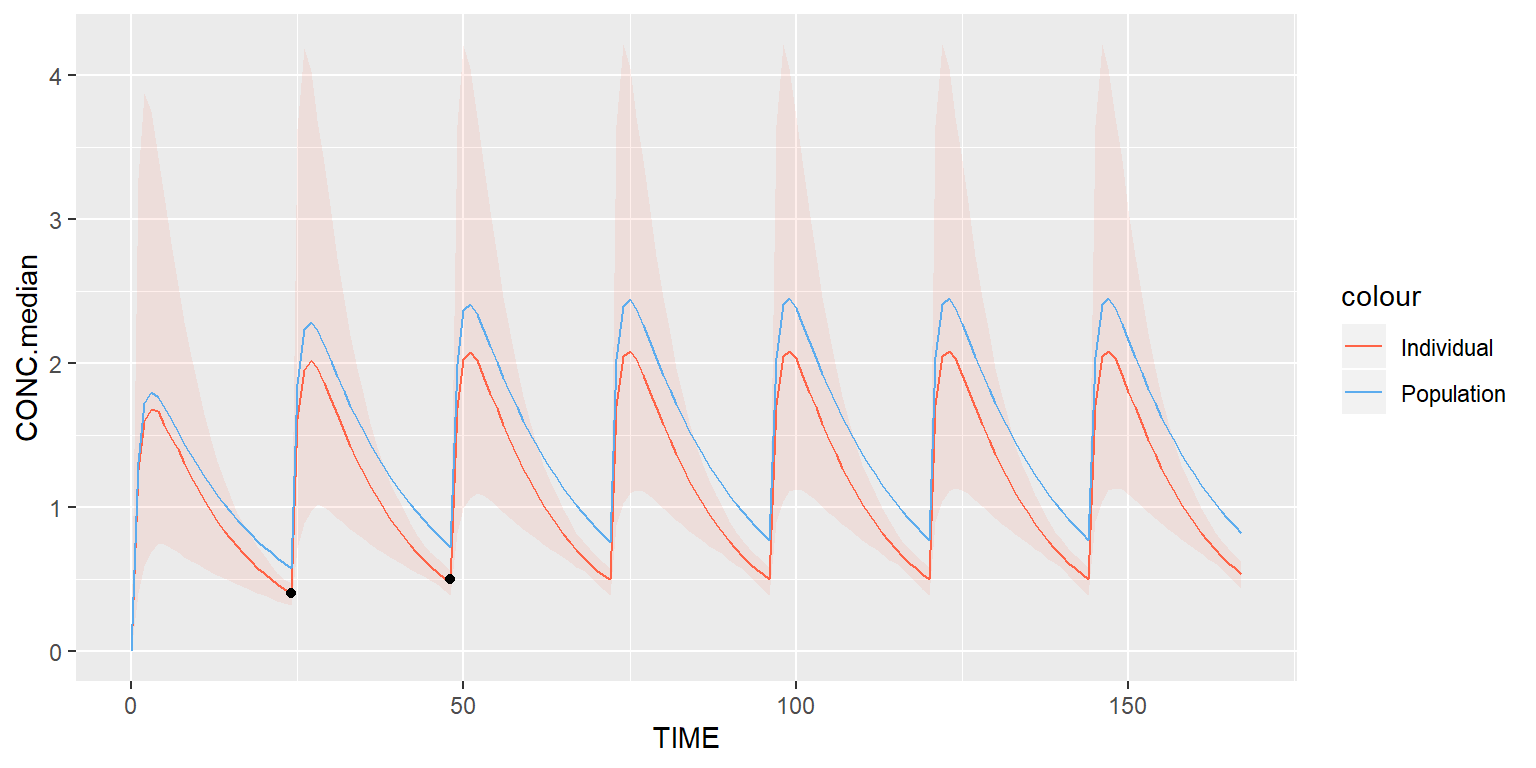
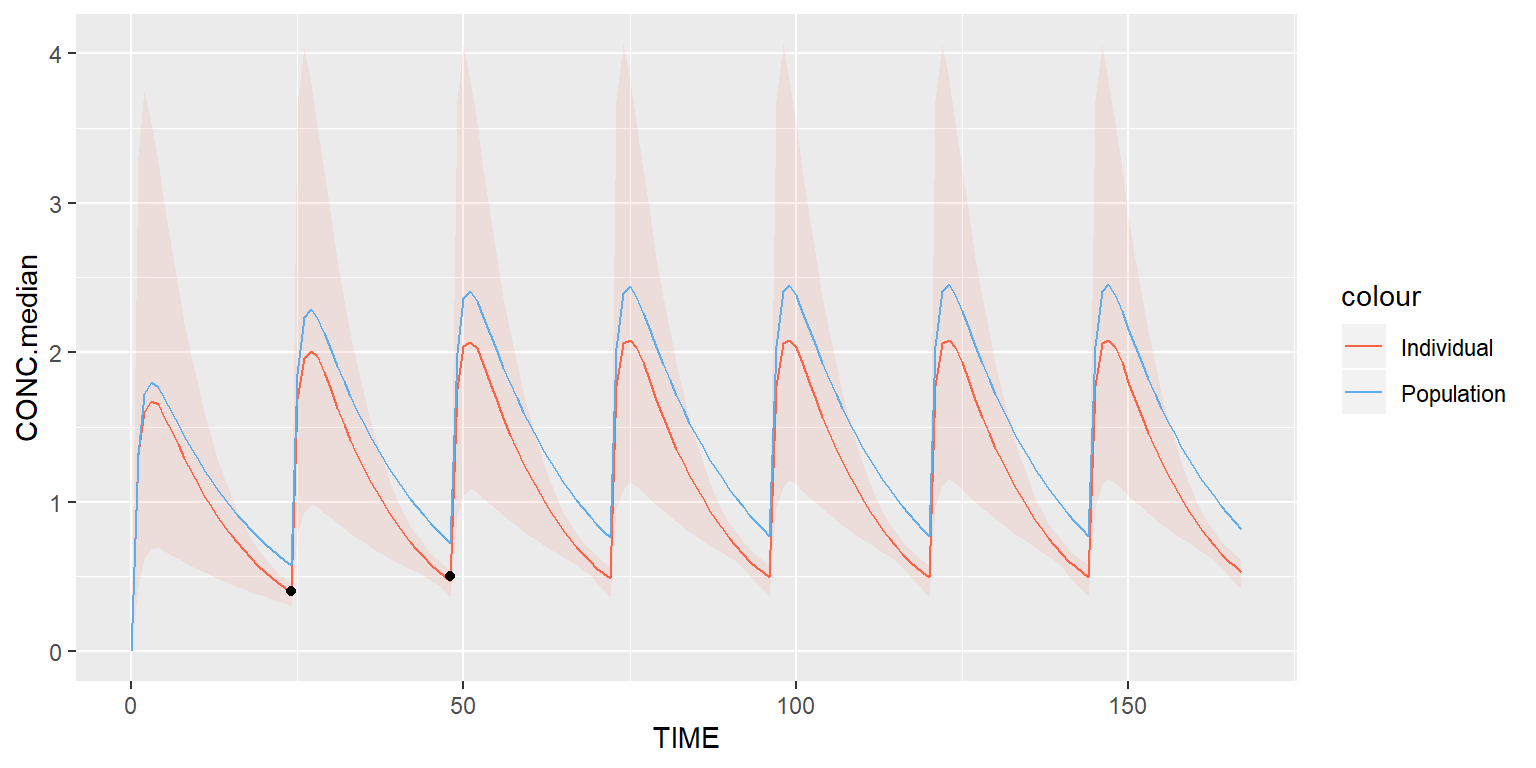
Set seed in 04-api to always generate same figures

diff --git a/docs/book/tdmore-api.html b/docs/book/tdmore-api.html
@@ -576,7 +576,7 @@ recommendation3 &lt;-<span class="st"> </span><span class="kw">findDose</span>(
 <span class="kw">summary</span>(recommendation3)</code></pre></div>
 <pre><code>## $dose
 ## dose.median  dose.lower  dose.upper 
-##    254.3902    215.0854    336.1720 
+##    249.8224    210.9476    316.6066 
 ## 
 ## $regimen
 ##   TIME      AMT
@@ -586,7 +586,7 @@ recommendation3 &lt;-<span class="st"> </span><span class="kw">findDose</span>(
 ## 4   72 150.0000
 ## 5   96 150.0000
 ## 6  120 150.0000
-## 7  144 254.3902</code></pre>
+## 7  144 249.8224</code></pre>
 <p>A 95% confidence interval is returned.</p>
 </div>
 <div id="visualise-a-recommendation" class="section level3">

diff --git a/docs/book/04-API.md b/docs/book/04-API.md
@@ -439,6 +439,8 @@ The above summary shows us how well the observed data was estimated. In particul
 Predictions on the `tdmorefit` object can be done as follows (see also \@ref(predicttdmorefit):
 
 
+
+
 ```r
 data <- predict(tdmorefit, newdata=data.frame(TIME=times, CONC=NA), se.fit=TRUE)
 ```
@@ -540,6 +542,8 @@ A last dose of 241mg is recommended for this specific subject.
 Use argument `se.fit` as follows:
 
 
+
+
 ```r
 newRegimen <- data.frame(TIME=c(0,1,2,3,4,5,6)*24, AMT=c(150,150,150,150,150,150,NA))
 
@@ -557,7 +561,7 @@ summary(recommendation3)
 ```
 ## $dose
 ## dose.median  dose.lower  dose.upper 
-##    254.3902    215.0854    336.1720 
+##    249.8224    210.9476    316.6066 
 ## 
 ## $regimen
 ##   TIME      AMT
@@ -567,7 +571,7 @@ summary(recommendation3)
 ## 4   72 150.0000
 ## 5   96 150.0000
 ## 6  120 150.0000
-## 7  144 254.3902
+## 7  144 249.8224
 ```
 
 A 95% confidence interval is returned.
